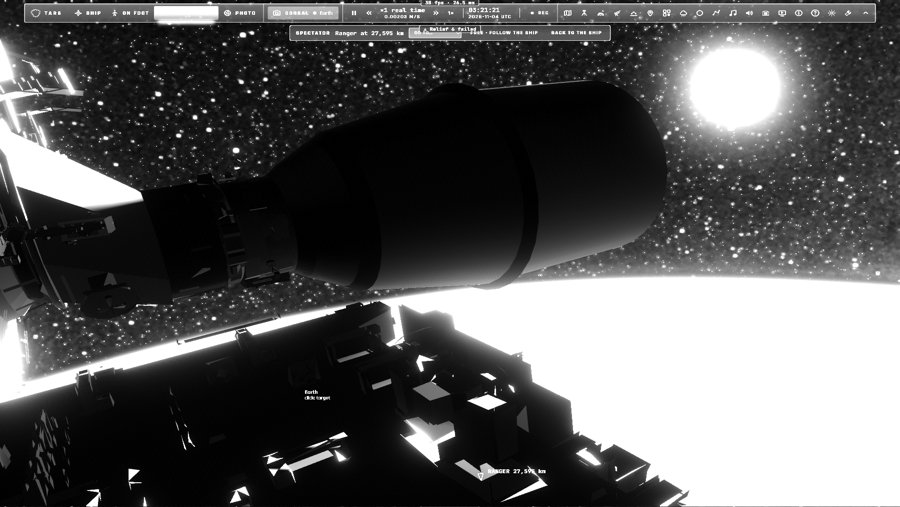
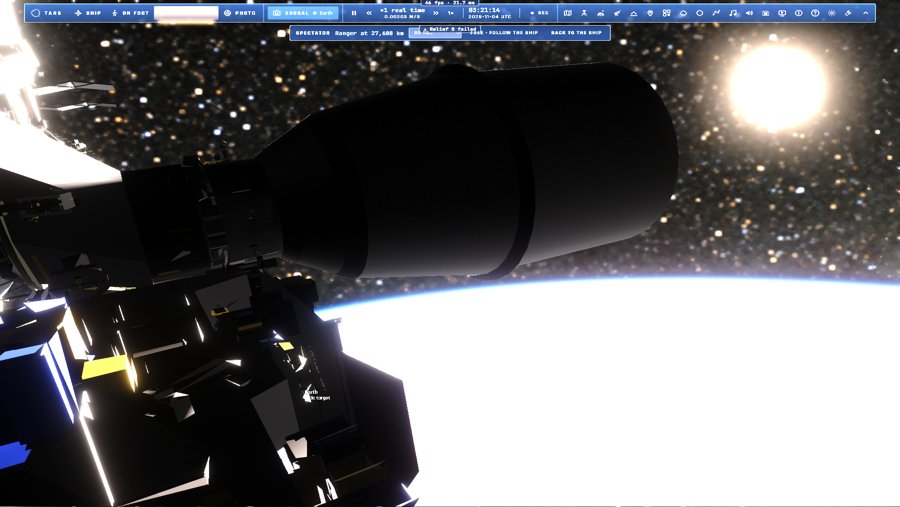
Q6-ISS : la caméra d'amarrage sur la face zénith de l'extrémité de Bartolomeo [14,6 ; 8,5 ; 4,4] — plus de structure au bas de l'image (1 % des rayons, recherche sur 900 attaches), le Dragon au centre à 8,0° au-dessus de l'axe (direct 6,3°)

diff --git a/src/system/iss-cameras.ts b/src/system/iss-cameras.ts
@@ -102,19 +102,20 @@ export const ISS_CAMERAS: readonly IssCamera[] = [
     id: "sen-docking",
     stream: "sen",
     description: "Sen SpaceTV-1, docking: along the station at the vehicle docked to Harmony's forward port (IDA-2)",
-    // (over Bartolomeo's outboard end — its box x 13.25–15.61, y 2.59–8.68, z 4.54 its zenith side —, half a metre above it: from
+    // (on Bartolomeo's outboard end, on its zenith side — its box x 13.25–15.61, y 2.59–8.68, z 4.54 its top —: from
     // there the Dragon's centre — the capsule's 6.55 m along IDA-2's axis, its middle ~18.9 m forward — is 9.9 m off and 8.5°
     // below the horizontal, where the stream shows it (15° − 6.3°), its size as there. Tried: the horizon camera's lower, aft mount
     // put it 8° above, out of the picture (the 16° gap of the first fit); z 4.1 at x 12.5, inside Columbus; Bartolomeo's forward
-    // corner, 6 m from it, too near — it filled the picture)
-    mount: [14.0, 8.5, 4.1],
+    // corner, 6 m from it, too near — it filled the picture; 14.0, 8.5, 4.1 saw Bartolomeo's payloads across the picture's
+    // bottom, which the stream has not — here 1 % of its lower part's rays meet the structure, scripts' search over 900 mounts)
+    mount: [14.6, 8.5, 4.4],
     mountFrom: "over Bartolomeo's outboard end, fitted on the docked Dragon's place and size in the stream's wide framing: ±1 m",
     // (ISS2, its wide framing of 4 Nov 2026 03:21 UTC — "Harmony forward port: Crew Dragon Grace" —: the limb fitted, its axis
     // 15° below the horizontal, roll −7°, horizontal field 74° (residual 1.1 px; scripts/iss-limb-fit.py); the docked Dragon at the
-    // picture's middle across, ~6° above the axis: its azimuth -60.0° (forward and to port), the mount's height from it (below). Its close framings — 04:20, 05:05, 05:26 — zoomed (the limb too short behind the capsule to fit);
+    // picture's middle across, ~6° above the axis: its azimuth -63.2° (forward and to port), the mount's height from it (below). Its close framings — 04:20, 05:05, 05:26 — zoomed (the limb too short behind the capsule to fit);
     // the picture direct, as the horizon's)
-    look: unit([0.4824, -0.8368, 0.2588]),
-    right: unit([0.8441, 0.523, 0.1177]),
+    look: unit([0.436, -0.8619, 0.2588]),
+    right: unit([0.8714, 0.4762, 0.1177]),
     fovDeg: 74,
     status: "estimate",
   },

diff --git a/docs/progress/refraction-horizons/Q6-ISS.md b/docs/progress/refraction-horizons/Q6-ISS.md
@@ -714,3 +714,8 @@ estimant le déplacement par RANSAC. Le calcul a été fait par un outil jetable
   - l'occupant du port est fixe (pas de suivi des visites réelles) ;
   - le zoom des plans serrés n'est pas modélisé ;
   - la caméra d'amarrage reste au statut « estimate ».
+- **Le premier plan corrigé (même jour)** : recherche sur 900 attaches (le Dragon au centre, à ±2,5° de sa hauteur dans le
+  direct ; rayons de la caméra contre le maillage de la station). La meilleure est **[14,6 ; 8,5 ; 4,4]**, sur la face côté
+  zénith de l'extrémité extérieure de Bartolomeo. Les rayons du bas de l'image ne rencontrent presque plus de structure
+  (1 %), et le haut gauche reste plein de structure, comme sur le direct. Vu dans le jeu : la Terre dégagée en bas à droite,
+  la structure à gauche, le Dragon au centre à 9,6 m, 8,0° au-dessus de l'axe (direct : 6,3°). Planches mises à jour.
